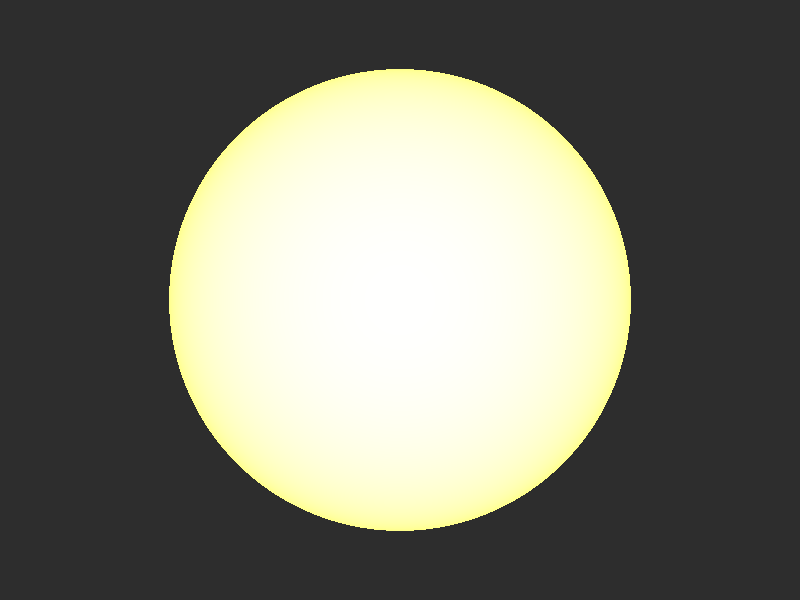
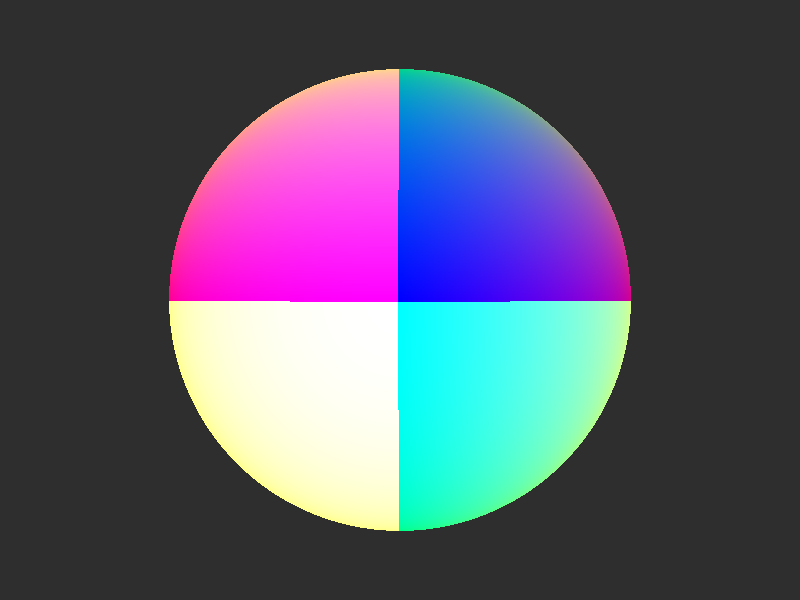
there is still something wrong, but i don't know why (pretty sure it's the colour values though)

Changed region(s): [[0.1875, 0.09, 0.8125, 0.9]]

diff --git a/core_module/src/main/java/nttn/legolization/test_raytracing/RayTracingTest.java b/core_module/src/main/java/nttn/legolization/test_raytracing/RayTracingTest.java
@@ -8,6 +8,16 @@ public class RayTracingTest {
             output ppm image
     * */
 
+    private char clampChar(char r) {
+        if(r < 0) {
+            r = 0;
+        }
+        else if (r > 255) {
+            r = 255;
+        }
+        return r;
+    }
+
     private Vector3d castRay(Ray ray) {
         Sphere sphere = new Sphere(new Vector3d(0.0f, 0.0f, -1.0f), 0.5);
         double hit = RayIntersectionChecker.raySphere(ray, sphere);
@@ -42,11 +52,11 @@ public class RayTracingTest {
                 Ray ray = new Ray(new Vector3d(0.0f), new Vector3d(u, v, -1.0f));
                 Vector3d colour = castRay(ray);
 
-                byte r = (byte)(255 * colour.x);
-                byte g = (byte)(255 * colour.y);
-                byte b = (byte)(255 * colour.z);
-                byte a = (byte)255;
-                System.out.println(colour);
+                char r = clampChar((char)(255.99 * colour.x));
+                char g = clampChar((char)(255.99 * colour.y));
+                char b = clampChar((char)(255.99 * colour.z));
+                char a = clampChar((char)255);
+//                System.out.println(colour);
 
                 int color = (a << 24) | (r << 16) | (g << 8) | b;
                 pixels[j][i] = color;

diff --git a/core_module/src/main/java/nttn/legolization/test_raytracing/ImageWriter.java b/core_module/src/main/java/nttn/legolization/test_raytracing/ImageWriter.java
@@ -16,8 +16,7 @@ public class ImageWriter {
         // Populate the BufferedImage with pixel data
         for (int y = 0; y < height; y++) {
             for (int x = 0; x < width; x++) {
-                int pixelValue = pixels[y][x];
-                image.setRGB(x, y, pixelValue);
+                image.setRGB(x, y, pixels[y][x]);
             }
         }
 
